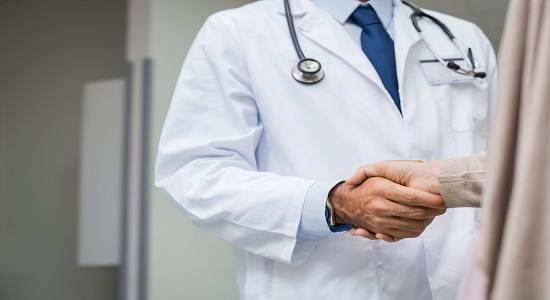
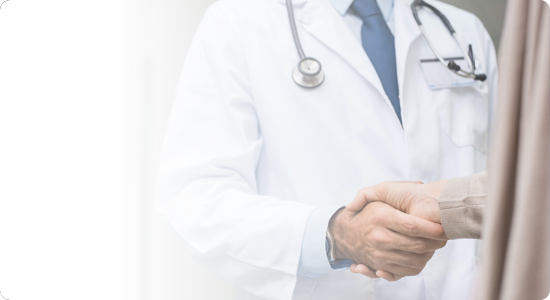
new images added

diff --git a/visite-ed-esami.php b/visite-ed-esami.php
@@ -246,24 +246,18 @@
    if (strlen($visit_name) < 20)
     $tm2_class = 'margin-top: 36%;';
 
-   $opacity_style = '';
-   $z_index_style =  '';
-    if (strtolower($visit_name) == 'psichiatria' || strtolower($visit_name) == 'urologia')
-     $opacity_style = 'opacity: .3;';
-    $z_index_style =  'z-index: 9999;';
-
   ?>
 
-
-    <div class="service_container">
+   <div class="service_container">
       <div id="w-node-9ebfabc602d8-851af311" class="service_maine_card">
 		  
 		  <!-- New HTML-Code --->
 		  <div class="feature diff">
-							<div class="feature_label" style="<?php echo $tm2_class.$z_index_style?>"><a href="<?php echo $link;?>"><?php echo $visit_name;?>
+							<div class="feature_label" style="<?php echo $tm2_class?>"><a href="<?php echo $link;?>"><?php echo $visit_name;?>
          <img src="images/arrow.png" alt="" ></a>
        </div>
-							<img src="images/<?php echo strtolower($expl_visit_name[0])?>.png?v=3" style="<?php echo $opacity_style?>" alt="">
+							<img src="images/<?php echo strtolower($expl_visit_name[0])?>.png?v=7" alt="">
+
 						</div>
 		  <!-- New HTML-Code --->
 		  
